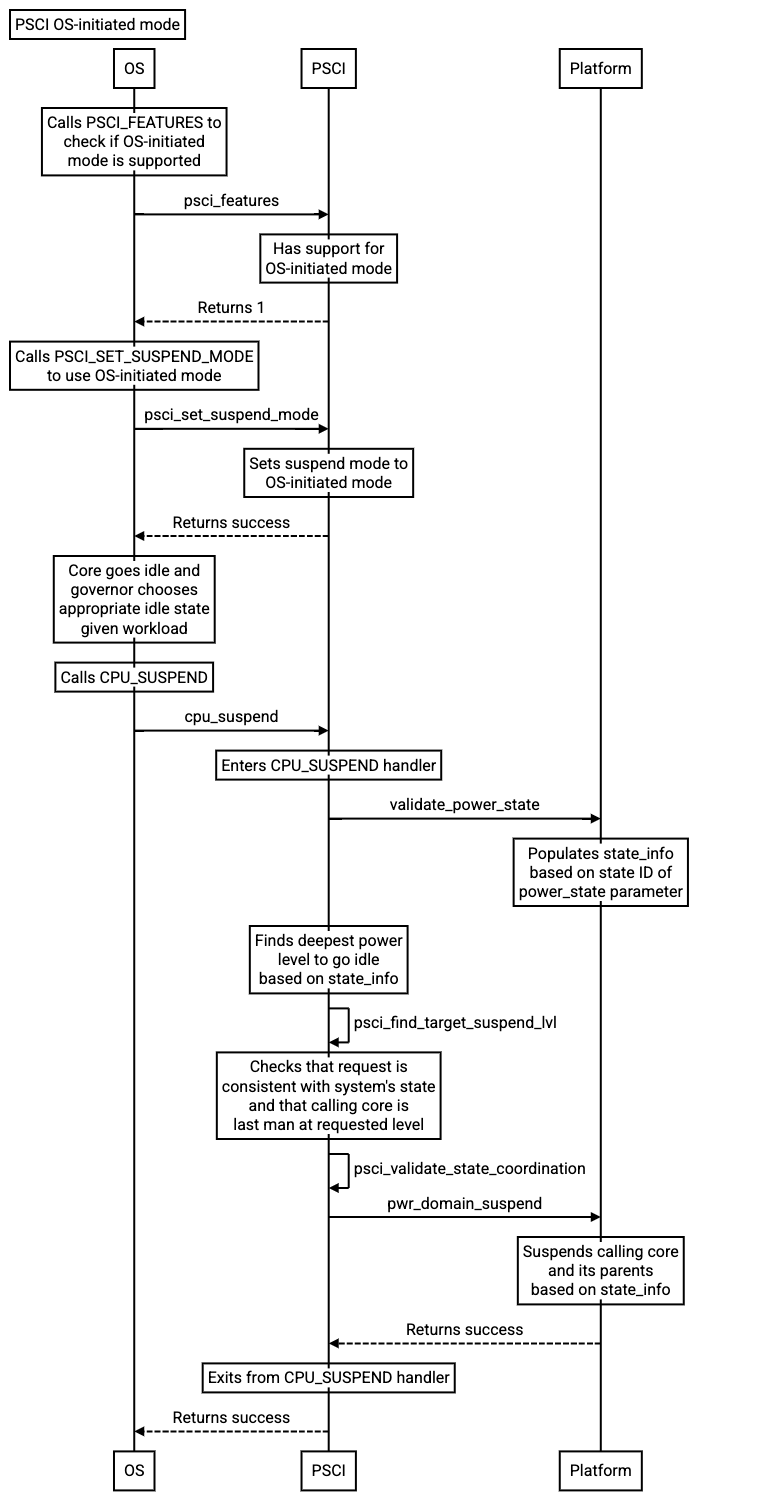
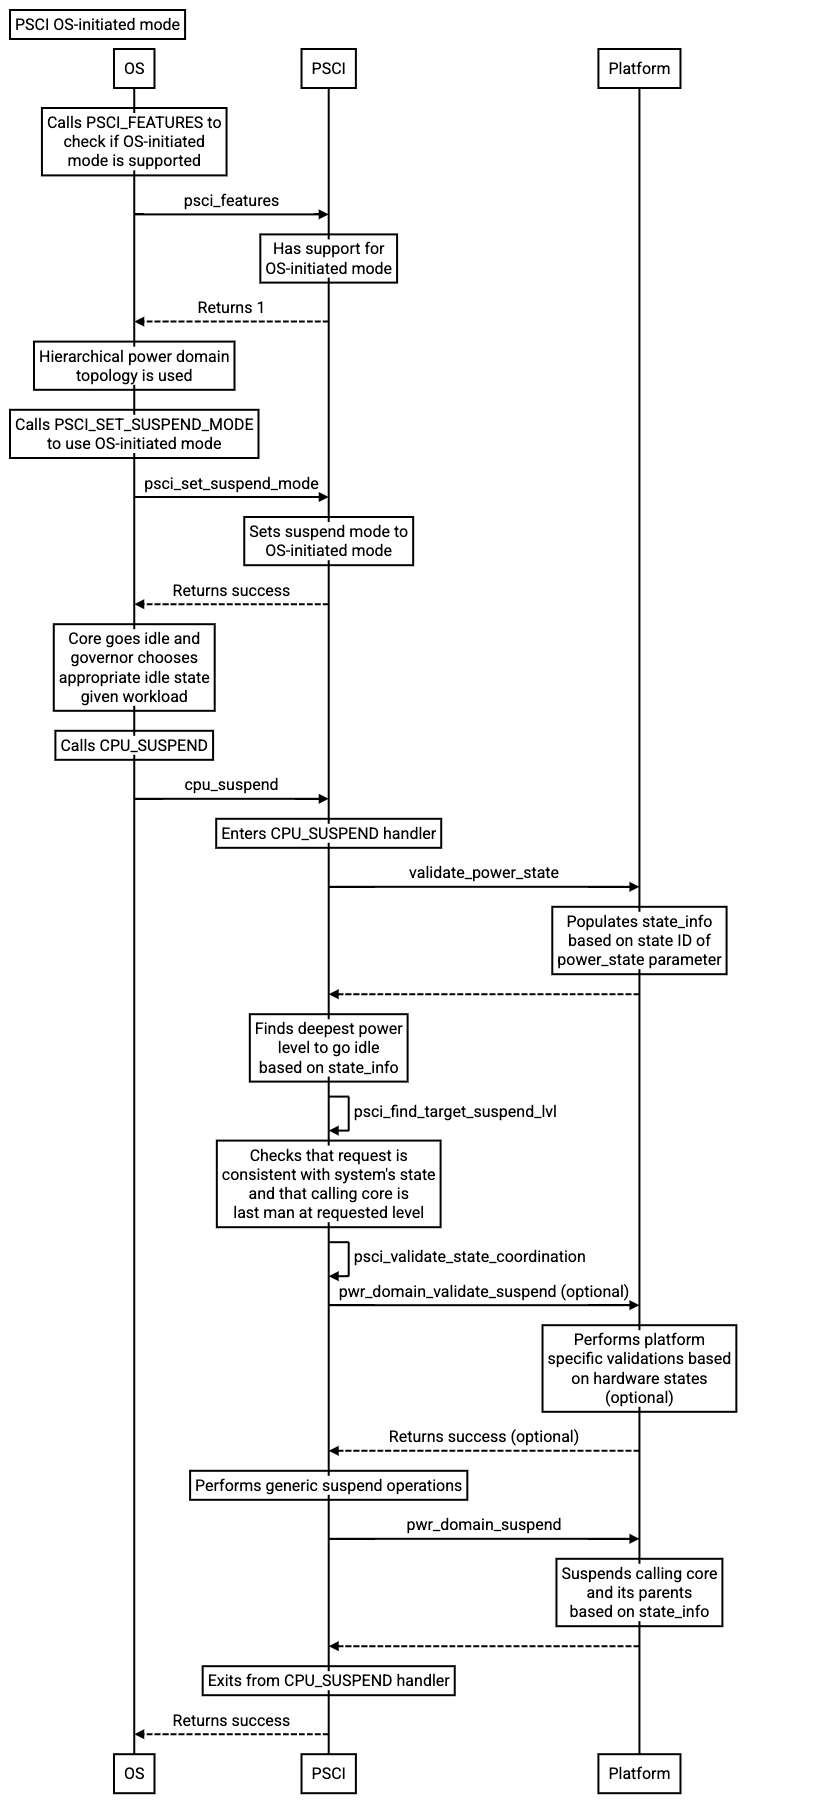
fix(psci): add optional pwr_domain_validate_suspend to plat_psci_ops_t
This patch adds a new optional member `pwr_domain_validate_suspend` to
the `plat_psci_ops_t` structure that allows a platform to optionally
perform platform specific validations in OS-initiated mode. This is
conditionally compiled into the build depending on the value of the
`PSCI_OS_INIT_MODE` build option.

In https://review.trustedfirmware.org/c/TF-A/trusted-firmware-a/+/17682,
the return type of the `pwr_domain_suspend` handler was updated from
`void` to `int` to allow a platform to optionally perform platform
specific validations in OS-initiated mode. However, when an error code
other than `PSCI_E_SUCCESS` is returned, the current exit path does not
undo the operations in `psci_suspend_to_pwrdown_start`, and as a result,
the system ends up in an unexpected state.

The fix in this patch prevents the need to undo the operations in
`psci_suspend_to_pwrdown_start`, by allowing the platform to first
perform any necessary platform specific validations before the PSCI
generic code proceeds to the point of no return where the CPU_SUSPEND
request is expected to complete successfully.

Changed region(s): [[0.0, 0.0, 0.9062, 0.996], [0.7188, 0.9338, 0.8438, 0.996], [0.7188, 0.0311, 0.8438, 0.0623]]

diff --git a/lib/psci/psci_common.c b/lib/psci/psci_common.c
@@ -451,8 +451,8 @@ void psci_get_target_local_pwr_states(unsigned int end_pwrlvl,
  * enter. This function will be called after coordination of requested power
  * states has been done for each power level.
  *****************************************************************************/
-static void psci_set_target_local_pwr_states(unsigned int end_pwrlvl,
-					const psci_power_state_t *target_state)
+void psci_set_target_local_pwr_states(unsigned int end_pwrlvl,
+				      const psci_power_state_t *target_state)
 {
 	unsigned int parent_idx, lvl;
 	const plat_local_state_t *pd_state = target_state->pwr_domain_state;
@@ -473,7 +473,6 @@ static void psci_set_target_local_pwr_states(unsigned int end_pwrlvl,
 		parent_idx = psci_non_cpu_pd_nodes[parent_idx].parent_node;
 	}
 }
-
 
 /*******************************************************************************
  * PSCI helper function to get the parent nodes corresponding to a cpu_index.
@@ -595,9 +594,6 @@ void psci_do_state_coordination(unsigned int end_pwrlvl,
 		state_info->pwr_domain_state[lvl] = PSCI_LOCAL_STATE_RUN;
 
 	}
-
-	/* Update the target state in the power domain nodes */
-	psci_set_target_local_pwr_states(end_pwrlvl, state_info);
 }
 
 #if PSCI_OS_INIT_MODE
@@ -683,9 +679,6 @@ exit:
 		psci_restore_req_local_pwr_states(cpu_idx, prev);
 		return rc;
 	}
-
-	/* Update the target state in the power domain nodes */
-	psci_set_target_local_pwr_states(end_pwrlvl, state_info);
 
 	return rc;
 }

diff --git a/lib/psci/psci_suspend.c b/lib/psci/psci_suspend.c
@@ -219,6 +219,19 @@ int psci_cpu_suspend_start(const entry_point_info_t *ep,
 	}
 #endif
 
+#if PSCI_OS_INIT_MODE
+	if (psci_plat_pm_ops->pwr_domain_validate_suspend != NULL) {
+		rc = psci_plat_pm_ops->pwr_domain_validate_suspend(state_info);
+		if (rc != PSCI_E_SUCCESS) {
+			skip_wfi = true;
+			goto exit;
+		}
+	}
+#endif
+
+	/* Update the target state in the power domain nodes */
+	psci_set_target_local_pwr_states(end_pwrlvl, state_info);
+
 #if ENABLE_PSCI_STAT
 	/* Update the last cpu for each level till end_pwrlvl */
 	psci_stats_update_pwr_down(end_pwrlvl, state_info);
@@ -234,15 +247,7 @@ int psci_cpu_suspend_start(const entry_point_info_t *ep,
 	 * program the power controller etc.
 	 */
 
-#if PSCI_OS_INIT_MODE
-	rc = psci_plat_pm_ops->pwr_domain_suspend(state_info);
-	if (rc != PSCI_E_SUCCESS) {
-		skip_wfi = true;
-		goto exit;
-	}
-#else
 	psci_plat_pm_ops->pwr_domain_suspend(state_info);
-#endif
 
 #if ENABLE_PSCI_STAT
 	plat_psci_stat_accounting_start(state_info);

diff --git a/include/lib/psci/psci.h b/include/lib/psci/psci.h
@@ -319,13 +319,13 @@ typedef struct plat_psci_ops {
 	int (*pwr_domain_on)(u_register_t mpidr);
 	void (*pwr_domain_off)(const psci_power_state_t *target_state);
 	int (*pwr_domain_off_early)(const psci_power_state_t *target_state);
+#if PSCI_OS_INIT_MODE
+	int (*pwr_domain_validate_suspend)(
+				const psci_power_state_t *target_state);
+#endif
 	void (*pwr_domain_suspend_pwrdown_early)(
 				const psci_power_state_t *target_state);
-#if PSCI_OS_INIT_MODE
-	int (*pwr_domain_suspend)(const psci_power_state_t *target_state);
-#else
 	void (*pwr_domain_suspend)(const psci_power_state_t *target_state);
-#endif
 	void (*pwr_domain_on_finish)(const psci_power_state_t *target_state);
 	void (*pwr_domain_on_finish_late)(
 				const psci_power_state_t *target_state);

diff --git a/lib/psci/psci_private.h b/lib/psci/psci_private.h
@@ -298,6 +298,8 @@ void psci_restore_req_local_pwr_states(unsigned int cpu_idx,
 #endif
 void psci_get_target_local_pwr_states(unsigned int end_pwrlvl,
 				      psci_power_state_t *target_state);
+void psci_set_target_local_pwr_states(unsigned int end_pwrlvl,
+				      const psci_power_state_t *target_state);
 int psci_validate_entry_point(entry_point_info_t *ep,
 			uintptr_t entrypoint, u_register_t context_id);
 void psci_get_parent_pwr_domain_nodes(unsigned int cpu_idx,

diff --git a/lib/psci/psci_off.c b/lib/psci/psci_off.c
@@ -104,6 +104,9 @@ int psci_do_cpu_off(unsigned int end_pwrlvl)
 	 */
 	psci_do_state_coordination(end_pwrlvl, &state_info);
 
+	/* Update the target state in the power domain nodes */
+	psci_set_target_local_pwr_states(end_pwrlvl, &state_info);
+
 #if ENABLE_PSCI_STAT
 	/* Update the last cpu for each level till end_pwrlvl */
 	psci_stats_update_pwr_down(end_pwrlvl, &state_info);

diff --git a/docs/porting-guide.rst b/docs/porting-guide.rst
@@ -2818,6 +2818,17 @@ power down state where as it could be either power down, retention or run state
 for the higher power domain levels depending on the result of state
 coordination. The generic code expects the handler to succeed.
 
+plat_psci_ops.pwr_domain_validate_suspend() [optional]
+......................................................
+
+This is an optional function that is only compiled into the build if the build
+option ``PSCI_OS_INIT_MODE`` is enabled.
+
+If implemented, this function allows the platform to perform platform specific
+validations based on hardware states. The generic code expects this function to
+return PSCI_E_SUCCESS on success, or either PSCI_E_DENIED or
+PSCI_E_INVALID_PARAMS as appropriate for any invalid requests.
+
 plat_psci_ops.pwr_domain_suspend_pwrdown_early() [optional]
 ...........................................................
 
@@ -2875,10 +2886,6 @@ system. The context of the Distributor can be large and may require it to be
 allocated in a special area if it cannot fit in the platform's global static
 data, for example in DRAM. The Distributor can then be powered down using an
 implementation-defined sequence.
-
-If the build option ``PSCI_OS_INIT_MODE`` is enabled, the generic code expects
-the platform to return PSCI_E_SUCCESS on success, or either PSCI_E_DENIED or
-PSCI_E_INVALID_PARAMS as appropriate for any invalid requests.
 
 plat_psci_ops.pwr_domain_pwr_down_wfi()
 .......................................

diff --git a/docs/design_documents/psci_osi_mode.rst b/docs/design_documents/psci_osi_mode.rst
@@ -4,7 +4,7 @@ PSCI OS-initiated mode
 :Author: Maulik Shah & Wing Li
 :Organization: Qualcomm Innovation Center, Inc. & Google LLC
 :Contact: Maulik Shah <quic_mkshah@quicinc.com> & Wing Li <wingers@google.com>
-:Status: RFC
+:Status: Accepted
 
 .. contents:: Table of Contents
 
@@ -367,9 +367,11 @@ To add support for OS-initiated mode, the following changes are proposed:
     ``psci_validate_state_coordination``. If validation fails, propagate the
     error up the call stack.
 
-* Update the return type of the platform specific ``pwr_domain_suspend``
-  handler from ``void`` to ``int``, to allow the platform to optionally perform
-  validations based on hardware states.
+* Add a new optional member ``pwr_domain_validate_suspend`` to
+  ``plat_psci_ops_t`` to allow the platform to optionally perform validations
+  based on hardware states.
+
+* The platform specific ``pwr_domain_suspend`` handler remains unchanged.
 
 .. image:: ../resources/diagrams/psci-osi-mode.png
 
